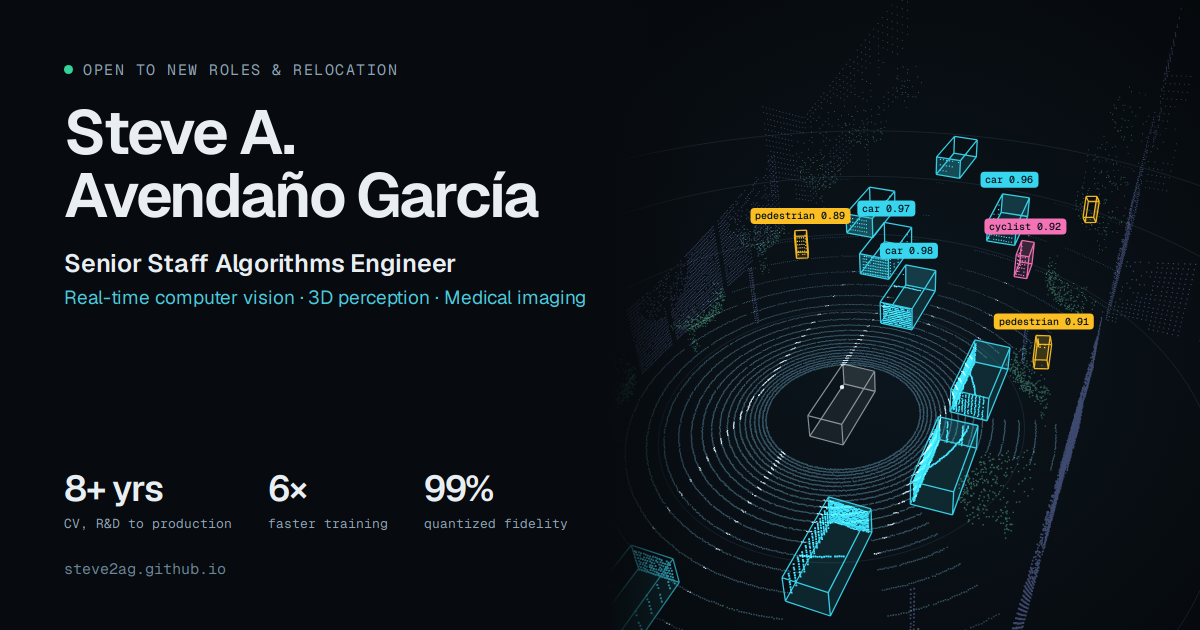
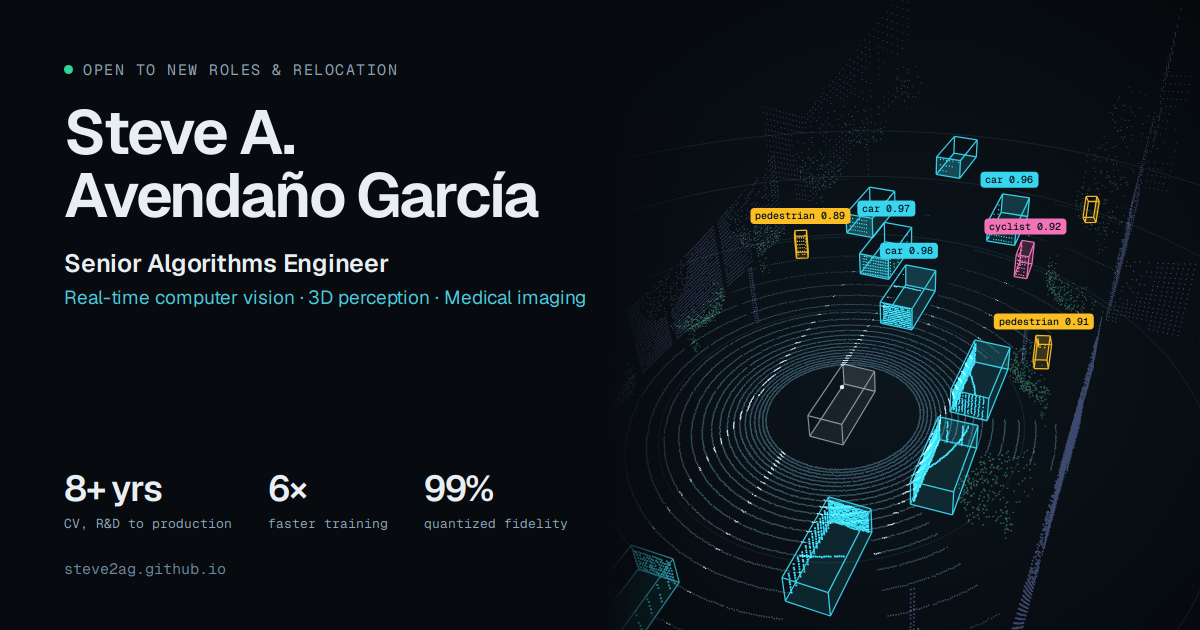
Update title to Senior and refresh figures
Senior Algorithms Engineer across the page and social preview; 92% GPU
utilization, 50% fewer failing frames, 41% of the generalization gap;
new synthetic-data bullet, MRI paper title and description, X-ray tag
and Blender Cycles skill.

Changed region(s): [[0.1233, 0.3921, 0.37, 0.4524], [0.0925, 0.754, 0.1233, 0.8143]]

diff --git a/index.html b/index.html
@@ -3,20 +3,20 @@
 <head>
   <meta charset="utf-8">
   <meta name="viewport" content="width=device-width, initial-scale=1">
-  <title>Steve Avendaño · Senior Staff Algorithms Engineer · Computer Vision & Medical Imaging</title>
-  <meta name="description" content="Senior Staff ML and algorithms engineer with 8+ years taking computer-vision models from R&D to real-time, safety-critical deployment in production vehicles, with a biomedical physics background in medical imaging. Querétaro, Mexico · open to relocation.">
+  <title>Steve Avendaño · Senior Algorithms Engineer · Computer Vision & Medical Imaging</title>
+  <meta name="description" content="Senior ML and algorithms engineer with 8+ years taking computer-vision models from R&D to real-time, safety-critical deployment in production vehicles, with a biomedical physics background in medical imaging. Querétaro, Mexico · open to relocation.">
   <meta name="author" content="Steve A. Avendaño García">
   <link rel="canonical" href="https://steve2ag.github.io/">
 
   <meta property="og:type" content="profile">
   <meta property="og:site_name" content="Steve A. Avendaño García">
-  <meta property="og:title" content="Steve A. Avendaño García · Senior Staff Algorithms Engineer">
+  <meta property="og:title" content="Steve A. Avendaño García · Senior Algorithms Engineer">
   <meta property="og:description" content="Real-time computer vision, 3D perception and medical imaging. 8+ years taking models from research to production vehicles.">
   <meta property="og:url" content="https://steve2ag.github.io/">
   <meta property="og:image" content="https://steve2ag.github.io/assets/og-image.png">
   <meta property="og:image:width" content="1200">
   <meta property="og:image:height" content="630">
-  <meta property="og:image:alt" content="Steve A. Avendaño García, Senior Staff Algorithms Engineer, next to a LiDAR-style point cloud with 3D detection boxes.">
+  <meta property="og:image:alt" content="Steve A. Avendaño García, Senior Algorithms Engineer, next to a LiDAR-style point cloud with 3D detection boxes.">
   <meta property="profile:first_name" content="Steve">
   <meta property="profile:last_name" content="Avendaño García">
   <meta name="twitter:card" content="summary_large_image">
@@ -35,7 +35,7 @@
     "@context": "https://schema.org",
     "@type": "Person",
     "name": "Steve A. Avendaño García",
-    "jobTitle": "Senior Staff Algorithms Engineer",
+    "jobTitle": "Senior Algorithms Engineer",
     "description": "ML and algorithms engineer specializing in real-time computer vision, 3D perception and medical imaging.",
     "url": "https://steve2ag.github.io/",
     "email": "mailto:steve.aag1@gmail.com",
@@ -92,7 +92,7 @@
           <p class="status"><span class="status__dot" aria-hidden="true"></span>Open to new roles &amp; relocation</p>
           <h1>Steve A. Avendaño García</h1>
           <p class="hero__role">
-            Senior Staff Algorithms Engineer
+            Senior Algorithms Engineer
             <span><span class="nowrap">Real-time computer vision</span> · <span class="nowrap">3D perception</span> · <span class="nowrap">Medical imaging</span></span>
           </p>
           <p class="hero__lead">
@@ -150,7 +150,7 @@
           <li class="metric">
             <p class="metric__value">6×</p>
             <p class="metric__label">Faster model training</p>
-            <p class="metric__detail">Profiled training end to end (storage I/O, CPU preprocessing, host-to-GPU transfer, compute) and redesigned data loading, reaching ~90% average GPU utilization.</p>
+            <p class="metric__detail">Profiled training end to end (storage I/O, CPU preprocessing, host-to-GPU transfer, compute) and redesigned data loading, reaching ~92% average GPU utilization.</p>
           </li>
           <li class="metric">
             <p class="metric__value">99%</p>
@@ -168,14 +168,14 @@
             <p class="metric__detail">Ran 4–5 recordings concurrently as multi-model GPU processes sized to fit GPU memory.</p>
           </li>
           <li class="metric">
-            <p class="metric__value">43%</p>
+            <p class="metric__value">50%</p>
             <p class="metric__label">Fewer failing frames</p>
-            <p class="metric__detail">An agentic auto-research loop ran 100+ experiments over a weekend and proposed new loss terms, cutting failing frames by 43% on held-out field recordings.</p>
+            <p class="metric__detail">An agentic auto-research loop ran 100+ experiments over a weekend and proposed new loss terms, cutting failing frames by 50% on held-out field recordings.</p>
           </li>
           <li class="metric">
-            <p class="metric__value">50%</p>
+            <p class="metric__value">41%</p>
             <p class="metric__label">Of the generalization gap closed</p>
-            <p class="metric__detail">A Blender synthetic-data pipeline closed half the gap on unseen scenarios without regressing on seen ones.</p>
+            <p class="metric__detail">A Blender synthetic-data pipeline closed 41% of the gap on unseen scenarios without regressing on seen ones.</p>
           </li>
         </ul>
       </div>
@@ -195,7 +195,7 @@
               <p>Auburn Hills, USA · Querétaro, MX</p>
             </div>
             <div class="job__body">
-              <h3>R&amp;D Machine Learning Engineer, Senior Staff</h3>
+              <h3>R&amp;D Machine Learning Engineer, Senior</h3>
               <p class="job__org">Continental Automotive</p>
               <p class="job__summary">Owned multimodal perception models end to end, from framing a high-level objective as an ML task through state-of-the-art research, architecture, losses, training, labeling, evaluation, and deployment in production vehicles.</p>
               <ul class="job__list">
@@ -203,10 +203,10 @@
                 <li><strong>Deployment in production vehicles.</strong> Took models from PyTorch to real-time C++ on an automotive accelerator under strict latency budgets, using knowledge distillation, quantization-aware training, and post-training quantization; the quantized model kept 99% similarity to its floating-point reference. Reshaped architectures so weights and intermediate feature maps fit in on-chip memory (L1/L2/L3) instead of spilling to DDR.
                   <span class="stack">PyTorch · ONNX · C++ · ViT · DINOv3</span></li>
                 <li><strong>Automated labeling strategy.</strong> Designed a fully automated labeling pipeline for several terabytes of raw driving recordings, with no costly manual annotation. Iterated for label quality and hard-case coverage, raising reliably labeled frames by 14 percentage points and recovering most of the hardest scenarios. Ran 4–5 recordings concurrently as multi-model GPU processes sized to fit GPU memory, cutting each full-dataset relabel from ~4 days to under 1.</li>
-                <li><strong>Synthetic data for generalization.</strong> Found a performance gap on unseen scenarios through held-out cross-validation and built a Blender (Python) synthetic-data pipeline that closed 50% of it without regressing on seen scenarios. Extended it into simulation-based stress tests for rare, safety-critical cases before on-road deployment.</li>
-                <li><strong>6× faster training.</strong> Profiled training end to end and removed bottlenecks in storage I/O, CPU preprocessing, host-to-GPU transfer, and GPU compute; redesigned data loading (formats, sharding, prefetching). Training ran 6× faster at ~90% average GPU utilization, shortening each model iteration.
+                <li><strong>Synthetic data for generalization.</strong> Found a gap on unseen scenarios via held-out cross-validation and built a Python-scripted Blender Cycles pipeline (domain randomization, camera/ISP profiles matched to the real sensor, ray-cast keypoints) that closed 41% of it without regressing on seen ones.</li>
+                <li><strong>6× faster training.</strong> Profiled training end to end and removed bottlenecks in storage I/O, CPU preprocessing, host-to-GPU transfer, and GPU compute; redesigned data loading (formats, sharding, prefetching). Training ran 6× faster at ~92% average GPU utilization, shortening each model iteration.
                   <span class="stack">PyTorch · CUDA · NumPy · OpenCV · MLflow</span></li>
-                <li><strong>Agentic auto-research (PoC).</strong> Built an AI-agent loop that ran 100+ training experiments over a weekend, scored on held-out field recordings it never saw. Beyond hyperparameter search, it proposed new loss terms that drove most gains, cutting failing frames (below 90% precision) by 43%.</li>
+                <li><strong>Agentic auto-research (PoC).</strong> Built an AI-agent loop that ran 100+ training experiments over a weekend, scored on held-out field recordings it never saw. Beyond hyperparameter search, it proposed new loss terms that drove most gains, cutting failing frames (below 90% precision) by 50%.</li>
                 <li><strong>Metrics and evaluation.</strong> With no requirements to start from, defined the metrics, from training-time losses to precision, recall, and frame pass rate on field recordings, and aligned them with stakeholders. Built the evaluation pipeline and a centralized visualization platform for KPI tracking, failure inspection, and model comparison.
                   <span class="stack">MLflow · Docker · CI/CD</span></li>
                 <li><strong>Architecture and team leadership (2021–2023).</strong> Designed and managed implementation of the solution’s backend architecture and state machines; wrote the design documents and aligned them with existing requirements and algorithm- and system-level tests. Led a team of 4 engineers on one full-stack module, coordinated integration with the teams building other modules, set engineering standards, mentored engineers, and served as Scrum Master.</li>
@@ -252,7 +252,7 @@
               </video>
             </div>
             <div class="shot__body">
-              <p class="pub__top"><span class="badge">CT · Web app</span><span>2020</span></p>
+              <p class="pub__top"><span class="badge">CT · X-ray · Web app</span><span>2020</span></p>
               <h3>Imagen Salud: <span class="nowrap">COVID-19</span> diagnosis support</h3>
               <p class="shot__desc">A public web platform for COVID-19 diagnosis support from chest CT and X-ray, used and evaluated by physicians at La Raza (IMSS). Models segmented the lungs, ground-glass opacity and consolidation, reported the share of affected lung, and a CNN estimated the probability of COVID-19.</p>
               <p class="shot__role"><strong>My role:</strong> one of three leads; owned lung and lesion segmentation (U-Net) and quantification of affected lung, and contributed to report generation and the inference backend.</p>
@@ -317,9 +317,9 @@
           </li>
           <li class="pub">
             <p class="pub__top"><span class="badge">Paper</span><span>2020</span></p>
-            <h3>3D anatomical models for an ultra-low-field MRI system</h3>
+            <h3>Development of anatomical phantoms for an <span class="nowrap">ultra-low</span> field magnetic resonance imaging system</h3>
             <p class="pub__venue">XVI Mexican Symposium on Medical Physics · UNAM</p>
-            <p class="pub__desc">Segmentation and 3D modeling of anatomical structures to evaluate and improve a 3D ultra-low-field MRI system.</p>
+            <p class="pub__desc">First author. Segmented CT and MRI anatomy with machine learning and 3D-printed it as phantoms to image with an ultra-low-field MRI system.</p>
             <a class="pub__link" href="https://pubs.aip.org/aip/acp/article/2348/1/050012/999875/Development-of-anatomical-phantoms-for-an-ultra" target="_blank" rel="noopener">Read the paper<svg class="icon" aria-hidden="true"><use href="#i-arrow"/></svg></a>
           </li>
         </ul>
@@ -336,7 +336,7 @@
           <div class="skill-group">
             <h3>ML &amp; vision</h3>
             <ul class="chips">
-              <li>PyTorch</li><li>OpenCV</li><li>NumPy</li><li>CUDA</li><li>CNNs (U-Net, EfficientNet)</li><li>ViTs</li><li>DINOv3</li><li>Self-supervised learning</li><li>Synthetic data (Blender)</li>
+              <li>PyTorch</li><li>OpenCV</li><li>NumPy</li><li>CUDA</li><li>CNNs (U-Net, EfficientNet)</li><li>ViTs</li><li>DINOv3</li><li>Self-supervised learning</li><li>Synthetic data (Blender Cycles, camera/ISP simulation)</li>
             </ul>
           </div>
           <div class="skill-group">

diff --git a/tools/og-card.html b/tools/og-card.html
@@ -33,7 +33,7 @@
   <div class="text">
     <p class="eyebrow">Open to new roles &amp; relocation</p>
     <h1>Steve A.<br>Avendaño García</h1>
-    <p class="role">Senior Staff Algorithms Engineer</p>
+    <p class="role">Senior Algorithms Engineer</p>
     <p class="focus">Real-time computer vision · 3D perception · <span style="white-space:nowrap">Medical imaging</span></p>
     <div class="metrics">
       <p><b>8+ yrs</b><span>CV, R&amp;D to production</span></p>
